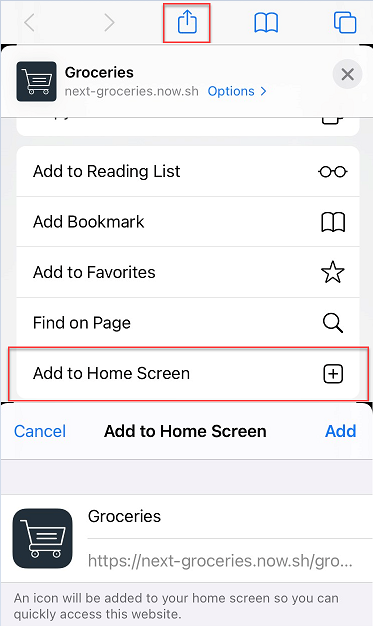
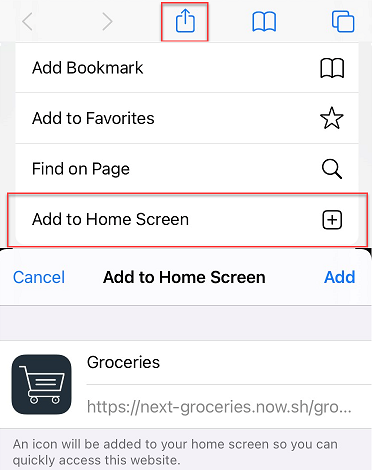
Updated styles for modal

diff --git a/components/Shared/AddToHome.tsx b/components/Shared/AddToHome.tsx
@@ -33,7 +33,7 @@ const bodyStyles = {
     borderLeft: '1px solid #000',
     borderRight: '1px solid #000',
     overflow: 'auto',
-    maxHeight: '400px'
+    maxHeight: '370px'
 }
 
 const footerStyles = {
@@ -57,8 +57,19 @@ const AddToHome = (props) => {
                 contentLabel="Add to Home Screen"
                 isOpen={modalIsOpen}
             >
-                <div id="add-to-home-header" style={headerStyles}>
-                    Add to Home Screen
+                <div id="add-to-home-header" className="flex space-between" style={headerStyles}>
+                    <div>
+                        Add to Home Screen
+                    </div>
+                    <div>
+                        <button className="clickable my-button"
+                            onClick={handleGotItClick}
+                            style={{
+                                backgroundColor: '#54925e'
+                            }}>
+                            Got it!
+                    </button>
+                    </div>
                 </div>
                 <div id="add-to-home-body" style={bodyStyles}>
                     <div style={{
@@ -69,16 +80,6 @@ const AddToHome = (props) => {
                     <div>
                         <img src="/images/tutorial/add-to-home-iphone.png" />
                     </div>
-                </div>
-                <div id="add-to-home-footer" style={footerStyles}>
-
-                    <button className="clickable my-button w-100"
-                        onClick={handleGotItClick}
-                        style={{
-                            backgroundColor: '#54925e'
-                        }}>
-                        Got it!
-                    </button>
                 </div>
             </Modal>
         </div>
